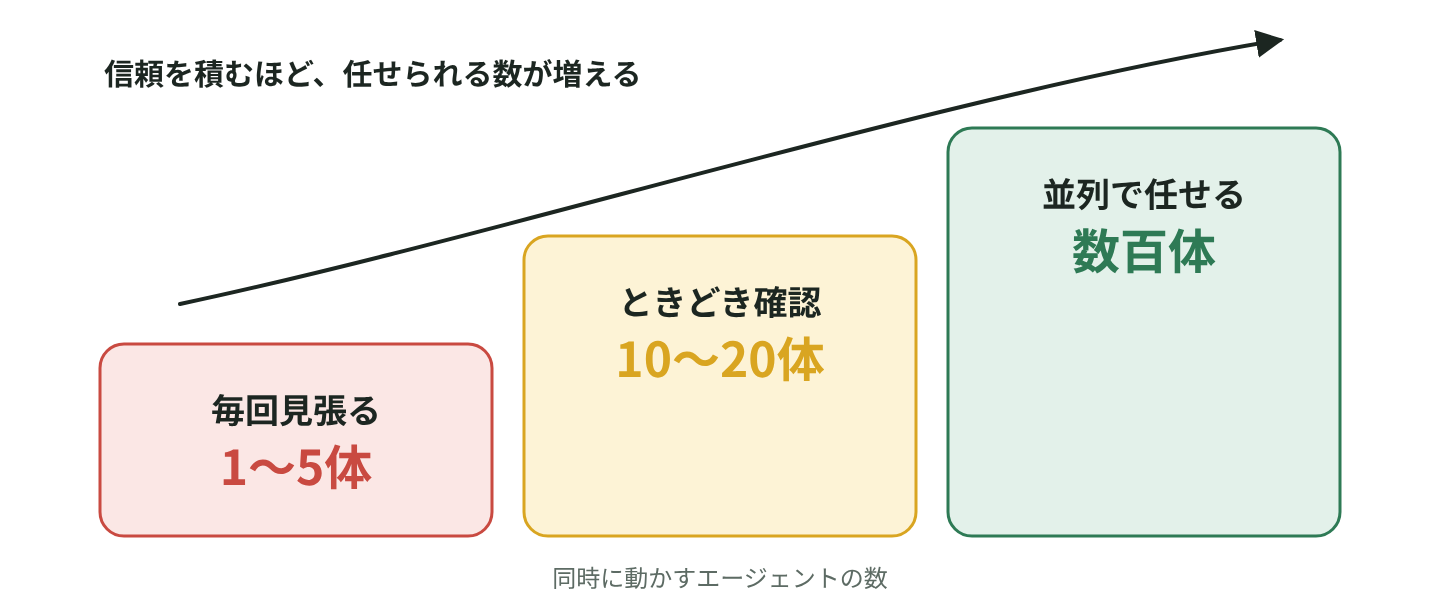
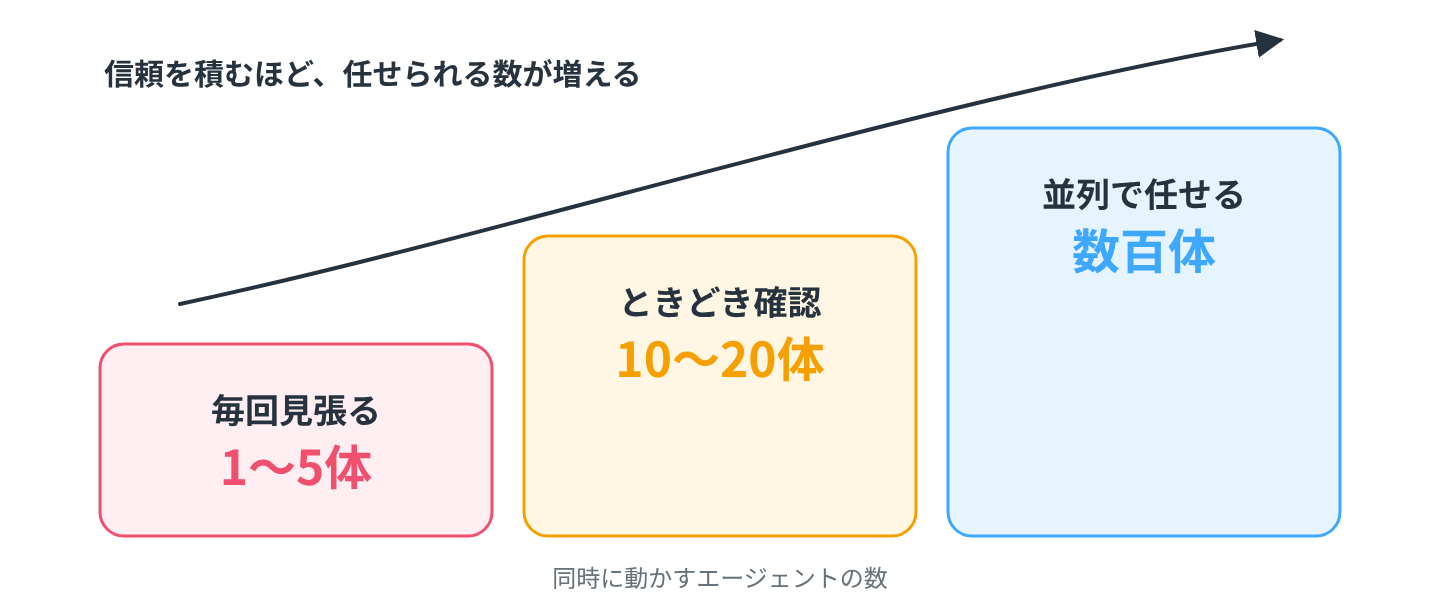
ai-kitchen-trust-ladder: recolor diagrams to the zenn.dev palette
Brand blue for key nodes, Zenn message yellow and alert pink for caution
and errors, cool grays for neutral nodes. zenn-post-review records the palette.

Claude-Session: https://claude.ai/code/session_01SJMrBpf1g62T91NeEF2VAu

diff --git a/diagrams/20260923-ai-kitchen-trust-ladder/build.py b/diagrams/20260923-ai-kitchen-trust-ladder/build.py
@@ -15,20 +15,22 @@ ROOT = HERE.parent.parent
 OUT = ROOT / "images" / HERE.name
 CHROMIUM = "/opt/pw-browsers/chromium-1194/chrome-linux/chrome"
 
+# Colors follow zenn.dev: brand blue #3ea8ff, link blue #0f83fd, :::message yellow, alert pink.
 FONT = "'Noto Sans CJK JP','Noto Sans JP','Hiragino Sans','Hiragino Kaku Gothic ProN','Yu Gothic',sans-serif"
-INK = "#1c2621"
-MUTED = "#5d6b64"
-LINE = "#8a9a92"
+INK = "#26323d"
+MUTED = "#65717b"
+LINE = "#a3b3bf"
 W = 720
 
 STYLES = {
     #        fill       stroke     title  sub
-    "plain": ("#f3f6f4", "#d5ddd8", INK, MUTED),
-    "green": ("#e3f1ea", "#2e7a55", INK, "#2e6b4c"),
-    "amber": ("#fdf3d6", "#d9a521", INK, "#8a6510"),
-    "red": ("#fbe7e5", "#c94a41", INK, "#9c3830"),
-    "dark": (INK, INK, "#ffffff", "#c9d6cf"),
-    "solid": ("#2e7a55", "#2e7a55", "#ffffff", "#d7ece1"),
+    "plain": ("#f5f9fc", "#d6e3ed", INK, MUTED),
+    "green": ("#e6f4ff", "#3ea8ff", INK, "#0f83fd"),
+    "amber": ("#fff6e4", "#f5a000", INK, "#a86200"),
+    "red": ("#ffeff2", "#f0506e", INK, "#c9304f"),
+    "dark": ("#3ea8ff", "#3ea8ff", "#ffffff", "#e6f4ff"),
+    "ink": (INK, INK, "#ffffff", "#c5d0d9"),
+    "solid": ("#0f83fd", "#0f83fd", "#ffffff", "#e0f1ff"),
 }
 
 
@@ -144,11 +146,11 @@ def d02():
     s.box(360, y, 190, 64, "あなたが検品", style="dark")
     s.box(600, y, 170, 64, "提供", style="green")
     s.arrow(206, y, 262, y)
-    s.arrow(456, y, 512, y, color="#2e7a55")
-    s.label(484, y - 24, "合格", color="#2e7a55")
+    s.arrow(456, y, 512, y, color="#3ea8ff")
+    s.label(484, y - 24, "合格", color="#3ea8ff")
     s.box(360, 196, 190, 60, "厨房を直す", style="red")
-    s.arrow(360, y + 33, 360, 163, color="#c94a41")
-    s.label(400, 132, "不合格", color="#c94a41")
+    s.arrow(360, y + 33, 360, 163, color="#f0506e")
+    s.label(400, 132, "不合格", color="#f0506e")
     s.path("M264,196 C170,196 120,170 120,113", color=MUTED, dashed=True)
     s.label(170, 196, "次の皿から失敗が減る")
     return s
@@ -173,8 +175,8 @@ def d03():
         s.box(x, 152, cw, 64, t, sub, style="green", size=17)
         for j, k in enumerate(kids):
             ky = 216 + j * 44
-            s.add(f'<rect x="{x - cw / 2 + 10}" y="{ky - 17}" width="{cw - 20}" height="34" rx="8" fill="#f3f6f4"/>')
-            s.add(f'<rect x="{x - cw / 2 + 10}" y="{ky - 17}" width="4" height="34" rx="2" fill="#2e7a55"/>')
+            s.add(f'<rect x="{x - cw / 2 + 10}" y="{ky - 17}" width="{cw - 20}" height="34" rx="8" fill="#f5f9fc"/>')
+            s.add(f'<rect x="{x - cw / 2 + 10}" y="{ky - 17}" width="4" height="34" rx="2" fill="#3ea8ff"/>')
             s.text(x - cw / 2 + 26, ky, k, size=14, anchor="start")
     return s
 
@@ -182,11 +184,11 @@ def d03():
 # 4. 5段のはしご
 def d04():
     rungs = [
-        ("1", "資料そのものを直す", "#2e7a55", "#ffffff"),
-        ("2", "機械で止める", "#4b9270", "#ffffff"),
-        ("3", "いつも読む指示", "#78ad92", "#ffffff"),
-        ("4", "手順書スキル", "#a6cab6", INK),
-        ("5", "人の目でチェック", "#d4e5db", INK),
+        ("1", "資料そのものを直す", "#0f83fd", "#ffffff"),
+        ("2", "機械で止める", "#3ea8ff", "#ffffff"),
+        ("3", "いつも読む指示", "#7cc4ff", INK),
+        ("4", "手順書スキル", "#b5dcff", INK),
+        ("5", "人の目でチェック", "#e0f1ff", INK),
     ]
     s = Svg(366)
     top, rh, gap = 30, 52, 10
@@ -201,7 +203,7 @@ def d04():
     bottom = top + 4 * (rh + gap) + rh
     s.path(f"M160,{bottom - 10} L160,{top + 12}", color=INK, width=2.4)
     s.text(132, (top + bottom) / 2, "昇格", size=15, weight=700, color=INK)
-    s.text(625, top + rh / 2, "強い", size=13, color="#2e7a55", weight=700, anchor="start")
+    s.text(625, top + rh / 2, "強い", size=13, color="#3ea8ff", weight=700, anchor="start")
     s.text(625, bottom - rh / 2, "弱い", size=13, color=MUTED, weight=700, anchor="start")
     s.text(W / 2 + 40, bottom + 22, "見つけた誤りは、できるだけ上の段で直す", size=13, color=MUTED)
     return s
@@ -215,10 +217,10 @@ def d05():
     s.box(600, 52, 150, 56, "通す", style="green")
     s.box(600, 148, 150, 56, "戻す", style="red")
     s.arrow(187, 100, 240, 100)
-    s.path("M437,88 C480,88 480,52 520,52", color="#2e7a55")
-    s.path("M437,112 C480,112 480,148 520,148", color="#c94a41")
-    s.label(478, 50, "OK", color="#2e7a55")
-    s.label(478, 150, "NG", color="#c94a41")
+    s.path("M437,88 C480,88 480,52 520,52", color="#3ea8ff")
+    s.path("M437,112 C480,112 480,148 520,148", color="#f0506e")
+    s.label(478, 50, "OK", color="#3ea8ff")
+    s.label(478, 150, "NG", color="#f0506e")
     return s
 
 
@@ -232,8 +234,8 @@ def d06():
         {"t": "人が判断", "style": "dark"},
     ], 146, 30)
     s.box(xs[2], 186, 250, 56, "lintやテンプレへ昇格", style="amber")
-    s.path(f"M{xs[3]},103 C{xs[3]},170 {xs[3] - 20},186 {xs[2] + 131},186", color="#b7861a", dashed=True)
-    s.label(xs[3] - 10, 142, "同じ指摘が続いたら", color="#8a6510")
+    s.path(f"M{xs[3]},103 C{xs[3]},170 {xs[3] - 20},186 {xs[2] + 131},186", color="#d98a00", dashed=True)
+    s.label(xs[3] - 10, 142, "同じ指摘が続いたら", color="#a86200")
     return s
 
 
@@ -242,12 +244,12 @@ def d07():
     s = Svg(270)
     y = 70
     xs = chain(s, y, [{"t": "申請"}, {"t": "承認"}, {"t": "完了", "style": "green"}], 140, 70)
-    s.path(f"M{xs[1] - 30},{y + 33} C{xs[1] - 50},{y + 95} {xs[0] + 50},{y + 95} {xs[0] + 30},{y + 37}", color="#c94a41", dashed=True)
-    s.label((xs[0] + xs[1]) / 2, y + 80, "差し戻し", color="#c94a41")
-    s.add(f'<rect x="{W / 2 - 220}" y="196" width="440" height="50" rx="12" fill="#fbe7e5" stroke="#c94a41" stroke-width="1.5"/>')
-    s.add(f'<circle cx="{W / 2 - 190}" cy="221" r="12" fill="#c94a41"/>')
+    s.path(f"M{xs[1] - 30},{y + 33} C{xs[1] - 50},{y + 95} {xs[0] + 50},{y + 95} {xs[0] + 30},{y + 37}", color="#f0506e", dashed=True)
+    s.label((xs[0] + xs[1]) / 2, y + 80, "差し戻し", color="#f0506e")
+    s.add(f'<rect x="{W / 2 - 220}" y="196" width="440" height="50" rx="12" fill="#ffeff2" stroke="#f0506e" stroke-width="1.5"/>')
+    s.add(f'<circle cx="{W / 2 - 190}" cy="221" r="12" fill="#f0506e"/>')
     s.text(W / 2 - 190, 221, "!", size=15, weight=700, color="#ffffff")
-    s.text(W / 2 + 14, 221, "差し戻しが終わらない経路を発見", size=16, weight=700, color="#9c3830")
+    s.text(W / 2 + 14, 221, "差し戻しが終わらない経路を発見", size=16, weight=700, color="#c9304f")
     return s
 
 
@@ -273,8 +275,8 @@ def d09():
     s.box(590, 175, 210, 56, "近道が正しい道に", style="green")
     s.path("M212,100 C240,100 245,55 270,55")
     s.path("M212,130 C240,130 245,175 270,175")
-    s.arrow(447, 55, 480, 55, color="#c94a41")
-    s.arrow(447, 175, 480, 175, color="#2e7a55")
+    s.arrow(447, 55, 480, 55, color="#f0506e")
+    s.arrow(447, 175, 480, 175, color="#3ea8ff")
     return s
 
 
@@ -284,24 +286,24 @@ def d10():
 
     def doc(x, y, scale=1.0, strong=False):
         w, h = 34 * scale, 42 * scale
-        fill = "#f0c24b" if strong else "#fdf3d6"
+        fill = "#ffc85c" if strong else "#fff6e4"
         s.add(
             f'<path d="M{x - w / 2},{y - h / 2} h{w * 0.68} l{w * 0.32},{w * 0.32} v{h - w * 0.32} h{-w} z" '
-            f'fill="{fill}" stroke="#d9a521" stroke-width="1.5" stroke-linejoin="round"/>'
+            f'fill="{fill}" stroke="#f5a000" stroke-width="1.5" stroke-linejoin="round"/>'
         )
         for k in range(3):
             ly = y - h / 2 + h * (0.42 + k * 0.17)
-            s.add(f'<line x1="{x - w * 0.3}" x2="{x + w * 0.3}" y1="{ly}" y2="{ly}" stroke="#b7861a" stroke-width="1.4" opacity="0.6"/>')
+            s.add(f'<line x1="{x - w * 0.3}" x2="{x + w * 0.3}" y1="{ly}" y2="{ly}" stroke="#d98a00" stroke-width="1.4" opacity="0.6"/>')
 
     cx = [110, 360, 590]
     ys1 = [150]
     ys2 = [60, 150, 240]
     ys3 = [30 + 48 * k for k in range(6)]
     for y in ys2:
-        s.path(f"M{cx[0] + 34},{ys1[0]} C{cx[0] + 140},{ys1[0]} {cx[1] - 130},{y} {cx[1] - 26},{y}", color="#d9a521")
+        s.path(f"M{cx[0] + 34},{ys1[0]} C{cx[0] + 140},{ys1[0]} {cx[1] - 130},{y} {cx[1] - 26},{y}", color="#f5a000")
     for i, y in enumerate(ys3):
         p = ys2[i // 2]
-        s.path(f"M{cx[1] + 22},{p} C{cx[1] + 110},{p} {cx[2] - 110},{y} {cx[2] - 22},{y}", color="#d9a521")
+        s.path(f"M{cx[1] + 22},{p} C{cx[1] + 110},{p} {cx[2] - 110},{y} {cx[2] - 22},{y}", color="#f5a000")
     doc(cx[0], ys1[0], 1.6, strong=True)
     for y in ys2:
         doc(cx[1], y, 1.0)
@@ -309,23 +311,23 @@ def d10():
         doc(cx[2], y, 0.8)
     s.text(cx[0], 210, "「とりあえず」1枚", size=15, weight=700)
     for x, n in zip(cx, ["1枚", "3枚", "6枚"]):
-        s.text(x, 312, n, size=14, weight=700, color="#8a6510")
+        s.text(x, 312, n, size=14, weight=700, color="#a86200")
     return s
 
 
 # 11. 迷いようがないフォルダ
 def d11():
     s = Svg(300)
-    s.add('<rect x="30" y="20" width="460" height="260" rx="16" fill="none" stroke="#8a9a92" stroke-width="1.5" stroke-dasharray="6 5"/>')
+    s.add('<rect x="30" y="20" width="460" height="260" rx="16" fill="none" stroke="#a3b3bf" stroke-width="1.5" stroke-dasharray="6 5"/>')
     s.text(48, 42, "AIが入れる範囲", size=12.5, color=MUTED, weight=700, anchor="start")
     s.box(260, 90, 220, 64, "共通情報", "読むだけ", style="plain", size=17)
     s.box(150, 220, 170, 60, "A社の案件", style="green")
     s.box(370, 220, 170, 60, "B社の案件", style="green")
     s.path("M220,123 C220,160 150,160 150,188")
     s.path("M300,123 C300,160 370,160 370,188")
-    s.add('<line x1="260" y1="196" x2="260" y2="244" stroke="#c94a41" stroke-width="3" stroke-linecap="round"/>')
-    s.label(260, 268, "互いに見ない", color="#c94a41")
-    s.box(605, 150, 170, 84, "社外秘", "AIは入れない", style="dark", size=17)
+    s.add('<line x1="260" y1="196" x2="260" y2="244" stroke="#f0506e" stroke-width="3" stroke-linecap="round"/>')
+    s.label(260, 268, "互いに見ない", color="#f0506e")
+    s.box(605, 150, 170, 84, "社外秘", "AIは入れない", style="ink", size=17)
     return s
 
 
@@ -359,8 +361,8 @@ def d14():
     s.box(310, y1, 190, 60, "どの段で直せる？", style="plain")
     s.box(590, y1, 170, 60, "環境に残す", style="green")
     s.arrow(179, y1, 211, y1)
-    s.arrow(409, y1, 501, y1, color="#2e7a55")
-    s.label(455, y1 - 22, "できるだけ上", color="#2e7a55")
+    s.arrow(409, y1, 501, y1, color="#3ea8ff")
+    s.label(455, y1 - 22, "できるだけ上", color="#3ea8ff")
     s.box(590, y2, 170, 60, "信頼が増える", style="dark")
     s.box(270, y2, 300, 60, "任せられる数が増える", style="solid", size=17)
     s.arrow(590, y1 + 34, 590, y2 - 36)

diff --git a/.claude/skills/zenn-post-review/SKILL.md b/.claude/skills/zenn-post-review/SKILL.md
@@ -64,6 +64,7 @@ The rules below come from real corrections on past posts. Each rule names the fa
   - HTML comments `<!-- -->`. Zenn renders them as visible text (lint rule + `html_comment` fixture).
   - Special digits such as circled numbers (①②③) and keycap emoji (1⃣). Plain `1.` `2.` `3.` is enough, in headings, tables and diagram labels (lint rule + `special_digit` fixture).
 - Diagrams are SVG, not mermaid (the user found mermaid diagrams crude, 2026-10-10). Write them in `diagrams/<slug>/build.py`, starting from `diagrams/20260923-ai-kitchen-trust-ladder/build.py` for the shared style and sans-serif font, run it, and embed `![alt](/images/<slug>/NN.png)`. Zenn's GitHub sync serves only png, jpg, gif and webp, so readers see the PNG.
+- Diagram colors follow zenn.dev, not a palette of your own (the user found a green palette clashed, 2026-10-10): white background, brand blue `#3ea8ff` for key nodes, `#0f83fd` for the strongest one, light blue `#e6f4ff` for positive nodes, gray `#f5f9fc`/`#d6e3ed` for neutral ones, `:::message` yellow `#fff6e4` for caution and alert pink `#ffeff2` for errors. The `STYLES` table in the reference `build.py` holds these.
 - If an older post still has mermaid:
   - Use `classDef` colors with explicit `color:`.
   - Keep node labels short (use `<br/>` for a second line).
